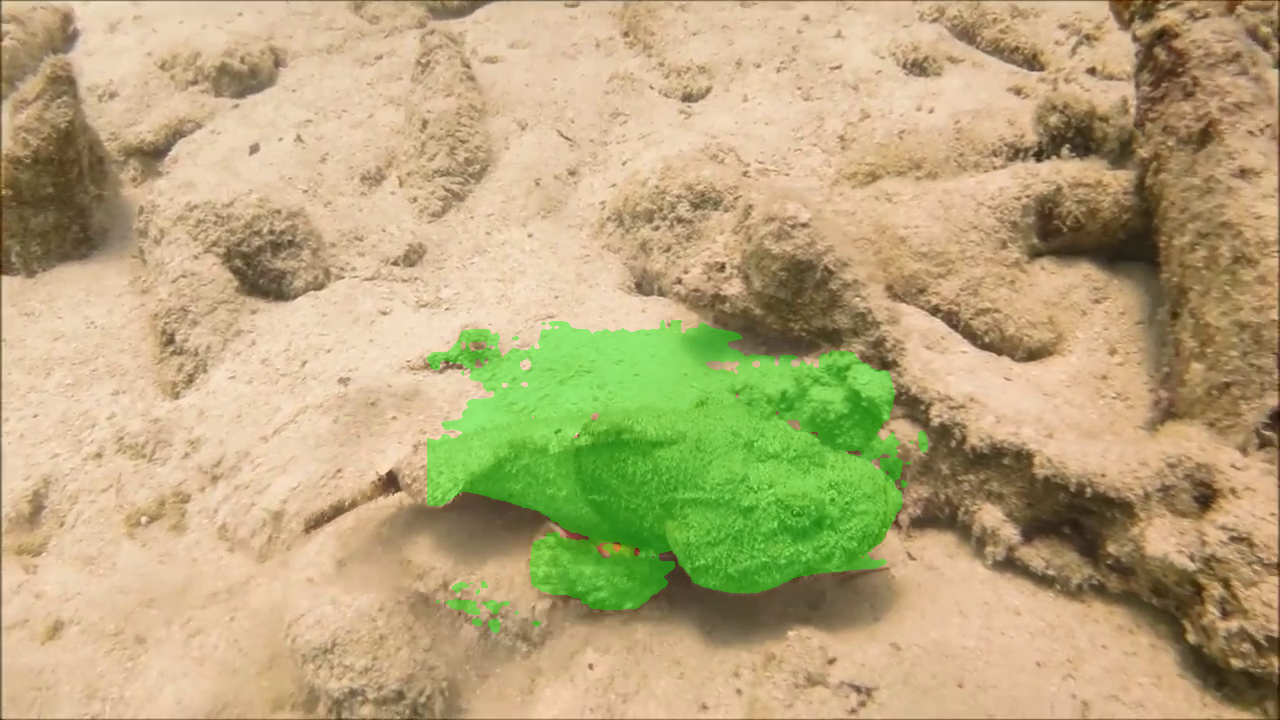
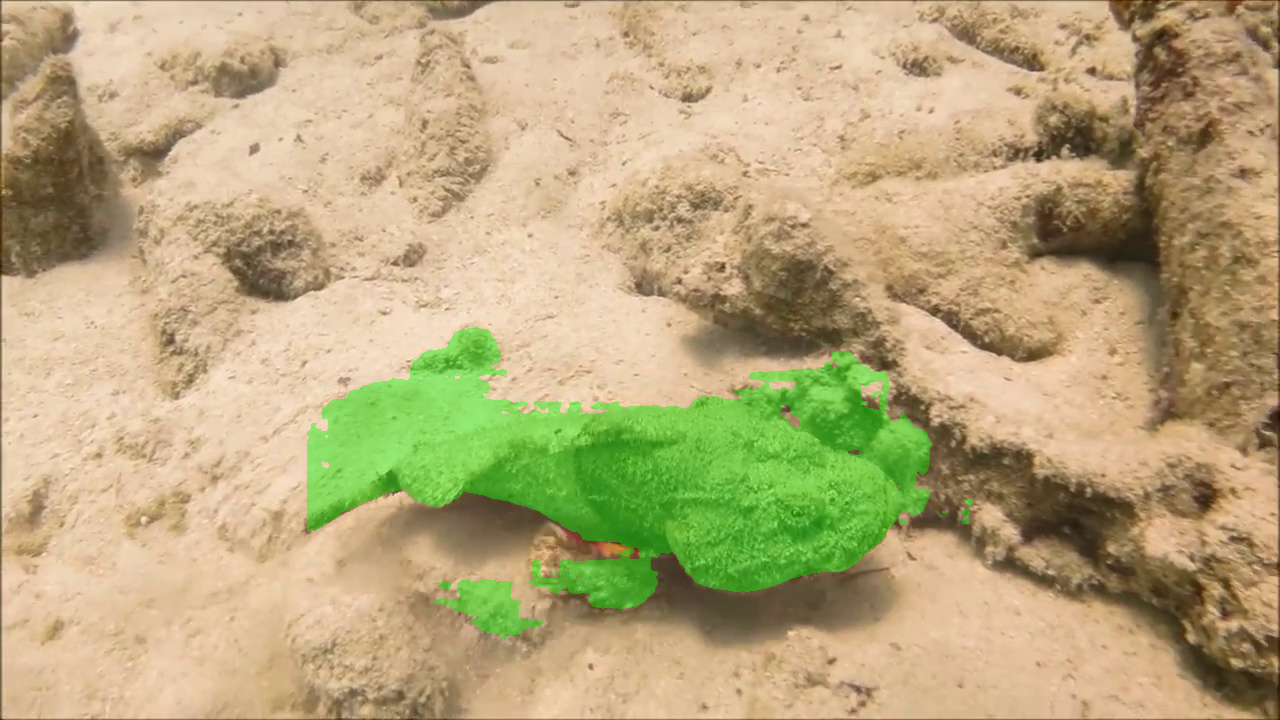
成功实现BBox自适应调整，剩余问题就是没有提示修改的地方不要乱动

diff --git a/test_roi_propagation.py b/test_roi_propagation.py
@@ -1,0 +1,129 @@
+#!/usr/bin/env python3
+"""
+测试ROI传递功能
+验证扩展后的ROI能否正确传递到下一轮
+"""
+
+import sys
+import os
+import numpy as np
+
+# 添加项目路径
+sys.path.insert(0, os.path.join(os.path.dirname(__file__), 'src'))
+
+from refactor_sam_sculpt import ROIBox, refine_mask_with_points, calculate_smart_roi_expansion
+
+# Mock SamPredictor for testing
+class MockSamPredictor:
+    def __init__(self):
+        pass
+    
+    def set_image(self, image):
+        pass
+    
+    def predict(self, point_coords, point_labels, box, multimask_output=True):
+        # 返回模拟的掩码
+        H, W = 500, 600
+        mask = np.zeros((H, W), dtype=bool)
+        # 在box区域内创建一个简单的掩码
+        x0, y0, x1, y1 = int(box[0]), int(box[1]), int(box[2]), int(box[3])
+        mask[max(0, y0):min(H, y1), max(0, x0):min(W, x1)] = True
+        
+        masks = np.array([mask])
+        scores = np.array([0.9])
+        logits = None
+        return masks, scores, logits
+
+def test_roi_propagation():
+    print("=== 测试ROI传递功能 ===")
+    
+    # 创建模拟数据
+    predictor = MockSamPredictor()
+    image = np.zeros((500, 600, 3), dtype=np.uint8)  # H=500, W=600
+    original_roi = ROIBox(100, 100, 300, 200)
+    prev_mask = np.zeros((500, 600), dtype=np.uint8)
+    square_size = 80.0
+    
+    print(f"原始ROI: ({original_roi.x0}, {original_roi.y0}, {original_roi.x1}, {original_roi.y1})")
+    
+    # 测试场景1: 有正点在ROI外侧
+    print("\n--- 测试场景1: 正点在左侧外面 ---")
+    pos_points_1 = [(80, 150)]  # 在ROI左边界外
+    neg_points_1 = []
+    
+    refined_mask_1, updated_roi_1 = refine_mask_with_points(
+        predictor, image, original_roi, pos_points_1, neg_points_1, prev_mask, square_size
+    )
+    
+    print(f"更新后ROI: ({updated_roi_1.x0:.1f}, {updated_roi_1.y0:.1f}, {updated_roi_1.x1:.1f}, {updated_roi_1.y1:.1f})")
+    
+    # 验证ROI确实被扩展了
+    assert updated_roi_1.x0 < original_roi.x0, "左边界应该被扩展"
+    assert updated_roi_1.y0 == original_roi.y0, "上下边界不应该变化"
+    assert updated_roi_1.y1 == original_roi.y1, "上下边界不应该变化"
+    print("✅ ROI正确扩展到左侧")
+    
+    # 测试场景2: 使用上一轮扩展后的ROI
+    print("\n--- 测试场景2: 使用扩展后的ROI进行下一轮 ---")
+    pos_points_2 = [(330, 150)]  # 在原始ROI右边界外，但可能在扩展ROI内
+    neg_points_2 = []
+    
+    refined_mask_2, updated_roi_2 = refine_mask_with_points(
+        predictor, image, updated_roi_1, pos_points_2, neg_points_2, prev_mask, square_size
+    )
+    
+    print(f"第二次更新后ROI: ({updated_roi_2.x0:.1f}, {updated_roi_2.y0:.1f}, {updated_roi_2.x1:.1f}, {updated_roi_2.y1:.1f})")
+    
+    # 验证ROI进一步扩展
+    assert updated_roi_2.x1 > original_roi.x1, "右边界应该被扩展"
+    print("✅ ROI正确扩展到右侧")
+    
+    # 测试场景3: 正点在ROI内部，不应该扩展
+    print("\n--- 测试场景3: 正点在ROI内部 ---")
+    pos_points_3 = [(200, 150)]  # 在更新后的ROI内部
+    neg_points_3 = []
+    
+    refined_mask_3, updated_roi_3 = refine_mask_with_points(
+        predictor, image, updated_roi_2, pos_points_3, neg_points_3, prev_mask, square_size
+    )
+    
+    print(f"第三次更新后ROI: ({updated_roi_3.x0:.1f}, {updated_roi_3.y0:.1f}, {updated_roi_3.x1:.1f}, {updated_roi_3.y1:.1f})")
+    
+    # 验证ROI没有进一步变化
+    assert updated_roi_3.x0 == updated_roi_2.x0, "ROI不应该进一步变化"
+    assert updated_roi_3.y0 == updated_roi_2.y0, "ROI不应该进一步变化"
+    assert updated_roi_3.x1 == updated_roi_2.x1, "ROI不应该进一步变化" 
+    assert updated_roi_3.y1 == updated_roi_2.y1, "ROI不应该进一步变化"
+    print("✅ ROI正确保持不变")
+    
+    # 测试场景4: 没有点时的处理
+    print("\n--- 测试场景4: 没有任何点 ---")
+    pos_points_4 = []
+    neg_points_4 = []
+    
+    refined_mask_4, updated_roi_4 = refine_mask_with_points(
+        predictor, image, updated_roi_3, pos_points_4, neg_points_4, prev_mask, square_size
+    )
+    
+    print(f"无点时ROI: ({updated_roi_4.x0:.1f}, {updated_roi_4.y0:.1f}, {updated_roi_4.x1:.1f}, {updated_roi_4.y1:.1f})")
+    
+    # 验证ROI和掩码都没有变化
+    assert updated_roi_4.x0 == updated_roi_3.x0, "ROI应该保持不变"
+    assert updated_roi_4.y0 == updated_roi_3.y0, "ROI应该保持不变"
+    assert updated_roi_4.x1 == updated_roi_3.x1, "ROI应该保持不变"
+    assert updated_roi_4.y1 == updated_roi_3.y1, "ROI应该保持不变"
+    assert np.array_equal(refined_mask_4, prev_mask), "掩码应该保持不变"
+    print("✅ 无点时ROI和掩码保持不变")
+    
+    print("\n🎉 ROI传递功能测试完成！所有测试用例通过。")
+    
+    # 总结ROI变化过程
+    print("\n=== ROI变化总结 ===")
+    print(f"原始ROI:      ({original_roi.x0}, {original_roi.y0}, {original_roi.x1}, {original_roi.y1})")
+    print(f"第1轮扩展后:  ({updated_roi_1.x0:.1f}, {updated_roi_1.y0:.1f}, {updated_roi_1.x1:.1f}, {updated_roi_1.y1:.1f})")
+    print(f"第2轮扩展后:  ({updated_roi_2.x0:.1f}, {updated_roi_2.y0:.1f}, {updated_roi_2.x1:.1f}, {updated_roi_2.y1:.1f})")
+    print(f"第3轮保持:    ({updated_roi_3.x0:.1f}, {updated_roi_3.y0:.1f}, {updated_roi_3.x1:.1f}, {updated_roi_3.y1:.1f})")
+    print(f"第4轮保持:    ({updated_roi_4.x0:.1f}, {updated_roi_4.y0:.1f}, {updated_roi_4.x1:.1f}, {updated_roi_4.y1:.1f})")
+
+if __name__ == "__main__":
+    test_roi_propagation()

diff --git a/refactor_sam_sculpt.py b/refactor_sam_sculpt.py
@@ -586,8 +586,10 @@ def refine_mask_with_points(predictor: SamPredictor, image: np.ndarray, roi_box:
                           pos_points: List[Tuple[float, float]],
                           neg_points: List[Tuple[float, float]],
                           prev_mask: np.ndarray,
-                          square_size: float = 0.0) -> np.ndarray:
-    """步骤4: 使用正负点进行SAM分割优化，支持智能BBox扩展"""
+                          square_size: float = 0.0) -> Tuple[np.ndarray, ROIBox]:
+    """步骤4: 使用正负点进行SAM分割优化，支持智能BBox扩展
+    返回: (refined_mask, updated_roi_box)
+    """
     predictor.set_image(image)
 
     # 组合所有点和标签
@@ -595,7 +597,7 @@ def refine_mask_with_points(predictor: SamPredictor, image: np.ndarray, roi_box:
     all_labels = [1] * len(pos_points) + [0] * len(neg_points)
 
     if not all_points:
-        return prev_mask
+        return prev_mask, roi_box  # 没有点时返回原始掩码和ROI
 
     # 智能调整ROI框：如果有正点在原BBox外，则扩展BBox
     H, W = image.shape[:2]
@@ -625,7 +627,7 @@ def refine_mask_with_points(predictor: SamPredictor, image: np.ndarray, roi_box:
     clipped_mask = np.zeros((H, W), dtype=np.uint8)
     clipped_mask[y0:y1, x0:x1] = (best_mask[y0:y1, x0:x1] > 0).astype(np.uint8) * 255
 
-    return clipped_mask
+    return clipped_mask, smart_roi  # 返回扩展后的ROI供下一轮使用
 
 
 def _resize_for_vlm(img: np.ndarray, max_side: int) -> np.ndarray:
@@ -691,7 +693,7 @@ def main():
     # 步骤1: 生成初始SAM掩码
     print("步骤1: 生成初始SAM掩码...")
     current_mask = generate_initial_sam_mask(predictor, image, roi_box)
-    save_image(os.path.join(output_dir, 'step1_initial_mask.png'), current_mask)
+    save_image(os.path.join(output_dir, 'round0_step1_initial_mask.png'), current_mask)
 
     # 迭代优化
     max_rounds = int(args.rounds)
@@ -701,7 +703,7 @@ def main():
         # 步骤2: 绘制锚点，让VLM选择需要精修的锚点
         print("步骤2: 绘制锚点并请求VLM选择...")
         anchor_vis = draw_anchors_on_image(image, roi_box, current_mask)
-        save_image(os.path.join(output_dir, f'step2_round{round_idx + 1}_anchors.png'), anchor_vis)
+        save_image(os.path.join(output_dir, f'round{round_idx + 1}_step2_anchors.png'), anchor_vis)
 
         # 传给VLM前缩放，降低显存压力
         anchor_vis_vlm = _resize_for_vlm(anchor_vis, int(args.vlm_max_side))
@@ -740,7 +742,7 @@ def main():
             quad_vis, square_bounds = create_tangent_square_visualization(
                 image, anchor_point, roi_box, current_mask, anchor_id, ratio=float(args.ratio)
             )
-            save_image(os.path.join(output_dir, f'step3_round{round_idx + 1}_anchor{anchor_id}_tangent_square.png'), quad_vis)
+            save_image(os.path.join(output_dir, f'round{round_idx + 1}_step3_anchor{anchor_id}_tangent_square.png'), quad_vis)
 
             # 传给VLM前缩放
             quad_vis_vlm = _resize_for_vlm(quad_vis, int(args.vlm_max_side))
@@ -777,9 +779,15 @@ def main():
             # 清理GPU缓存以释放内存
             import torch
             torch.cuda.empty_cache()
-            current_mask = refine_mask_with_points(predictor, image, roi_box,
-                                                 all_pos_points, all_neg_points, current_mask, square_size)
-            save_image(os.path.join(output_dir, f'step4_round{round_idx + 1}_refined_mask.png'), current_mask)
+            current_mask, updated_roi_box = refine_mask_with_points(predictor, image, roi_box,
+                                                                   all_pos_points, all_neg_points, current_mask, square_size)
+            # 更新ROI框供下一轮使用
+            if (updated_roi_box.x0 != roi_box.x0 or updated_roi_box.y0 != roi_box.y0 or 
+                updated_roi_box.x1 != roi_box.x1 or updated_roi_box.y1 != roi_box.y1):
+                print(f"[更新] 下一轮将使用新ROI: ({updated_roi_box.x0:.1f},{updated_roi_box.y0:.1f},{updated_roi_box.x1:.1f},{updated_roi_box.y1:.1f})")
+                roi_box = updated_roi_box  # 更新roi_box供下一轮使用
+            
+            save_image(os.path.join(output_dir, f'round{round_idx + 1}_step4_refined_mask.png'), current_mask)
             print(f"优化后掩码像素数: {np.sum(current_mask > 0)}")
         else:
             print("未生成任何点，跳过本轮优化")
